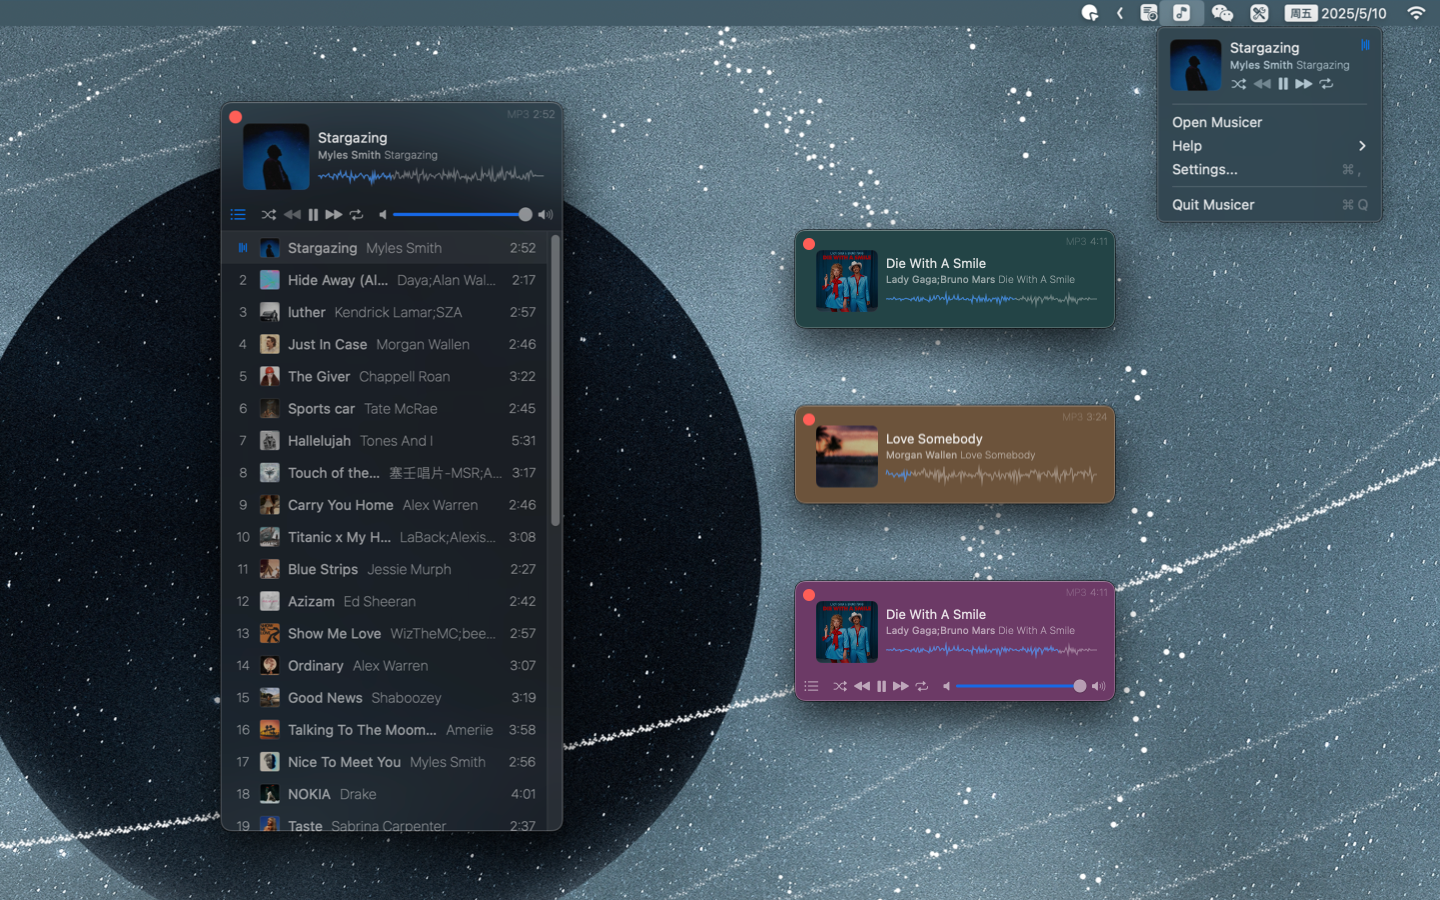
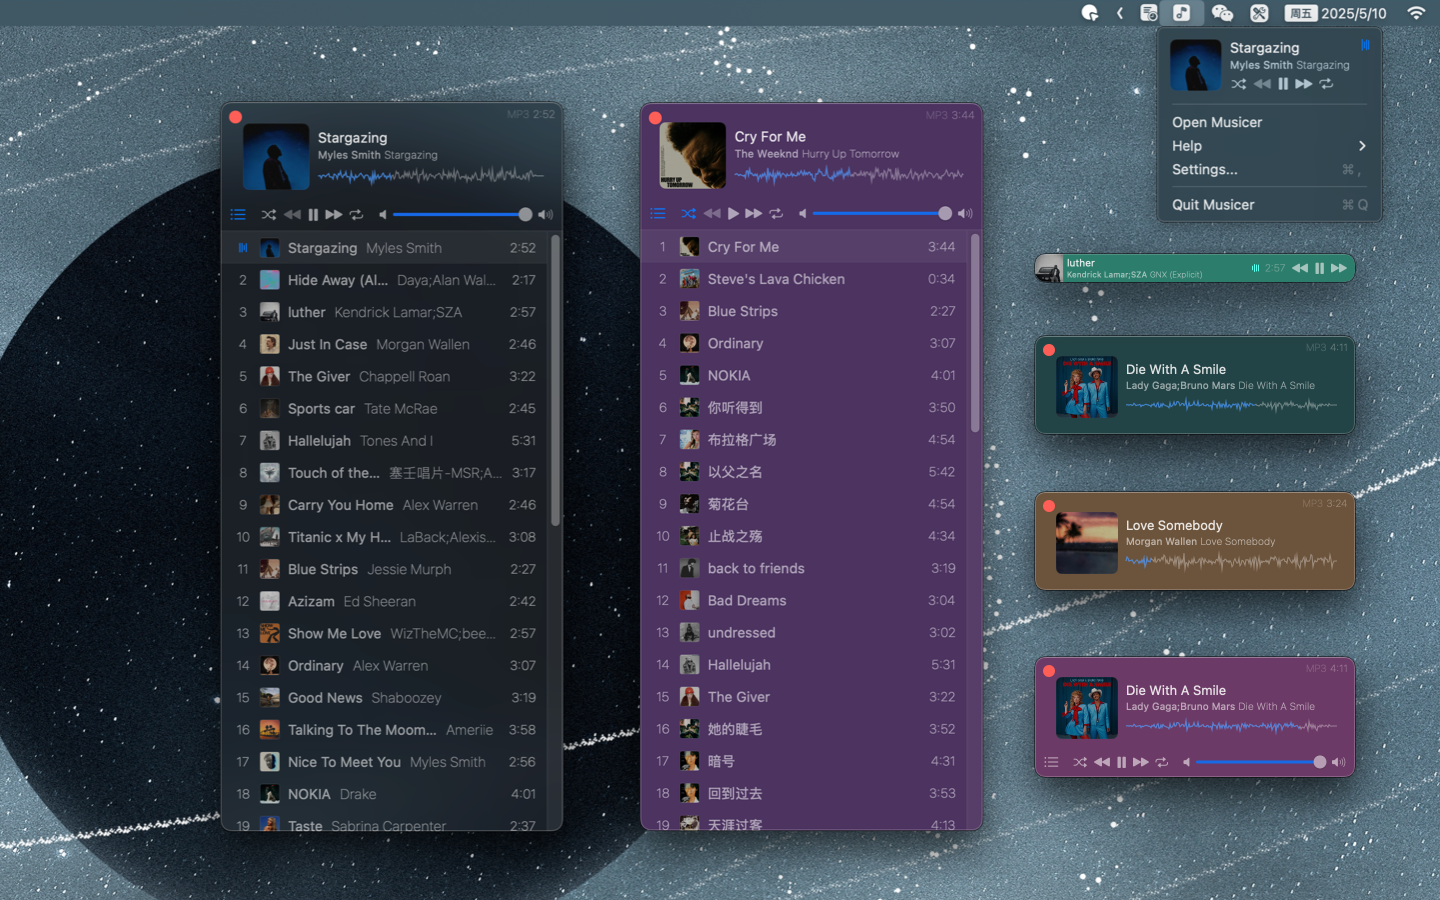
doc: update screenshots. eb938b3c29a59a7692d06b92d4dcbae3a60595a6

diff --git a/index.zh.html b/index.zh.html
@@ -4,7 +4,7 @@
     <meta charset="UTF-8">
     <meta http-equiv="X-UA-Compatible" content="IE=edge">
     <meta name="viewport" content="width=device-width, initial-scale=1.0">
-    <title>Musicer v1.1.0</title>
+    <title>Musicer 1.1.0</title>
     <meta name="description" content="迷你便捷的本地音乐播放器，轻巧实用，专为播放本地音频而设计，支持多种常见音频格式，随时随地畅听您的音乐！">
     <meta name="keywords" content="music,player,local,audio,offline,waveform,mini,toolbar">
     <link rel="stylesheet" type="text/css" href="css/main.css?v=1.34.1">
@@ -20,8 +20,8 @@
   </head>
   <body id="idoctotop"><a href="#idoctotop" class="gototop">top</a>
     <header class="header">
-      <article class="inner warpper" style="max-width:720px;"><a class="logo" href="index.html"><img alt="Musicer <sup>v1.1.0</sup> logo" src="assets/logo.png">
-<span class="title">Musicer <sup>v1.1.0</sup></span></a>
+      <article class="inner warpper" style="max-width:720px;"><a class="logo" href="index.html"><img alt="Musicer <sup>1.1.0</sup> logo" src="assets/logo.png">
+<span class="title">Musicer <sup>1.1.0</sup></span></a>
         <div class="content">
           <ul class="menu">
             <li><a href="index.html" target="" class="">Home</a></li>
@@ -48,6 +48,9 @@
         </div>
         <p>
           <img src="assets/screenshots-1.png" alt="Musicer 1">
+        </p>
+        <p>
+          <img src="assets/screenshots-2.png" alt="Musicer 2">
         </p>
         <p>迷你便捷的本地音乐播放器，轻巧实用，专为播放本地音频而设计，支持多种常见音频格式，随时随地畅听您的音乐！</p>
         <h3 id="核心功能"><a aria-hidden="true" tabindex="-1" href="#核心功能" class="anchor"><span class="icon icon-link"></span></a>核心功能</h3>

diff --git a/index.html b/index.html
@@ -4,7 +4,7 @@
     <meta charset="UTF-8">
     <meta http-equiv="X-UA-Compatible" content="IE=edge">
     <meta name="viewport" content="width=device-width, initial-scale=1.0">
-    <title>Musicer v1.1.0</title>
+    <title>Musicer 1.1.0</title>
     <meta name="description" content="Mini and convenient local music player, lightweight and practical, specially designed for playing local audio, supports ">
     <meta name="keywords" content="music,player,local,audio,offline,waveform,mini,toolbar">
     <link rel="stylesheet" type="text/css" href="css/main.css?v=1.34.1">
@@ -20,8 +20,8 @@
   </head>
   <body id="idoctotop"><a href="#idoctotop" class="gototop">top</a>
     <header class="header">
-      <article class="inner warpper" style="max-width:720px;"><a class="logo" href="index.html"><img alt="Musicer <sup>v1.1.0</sup> logo" src="assets/logo.png">
-<span class="title">Musicer <sup>v1.1.0</sup></span></a>
+      <article class="inner warpper" style="max-width:720px;"><a class="logo" href="index.html"><img alt="Musicer <sup>1.1.0</sup> logo" src="assets/logo.png">
+<span class="title">Musicer <sup>1.1.0</sup></span></a>
         <div class="content">
           <ul class="menu">
             <li><a href="index.html" target="" class="active">Home</a></li>
@@ -48,6 +48,9 @@
         </div>
         <p>
           <img src="assets/screenshots-1.png" alt="Musicer 1">
+        </p>
+        <p>
+          <img src="assets/screenshots-2.png" alt="Musicer 2">
         </p>
         <p>Mini and convenient local music player, lightweight and practical, specially designed for playing local audio, supports a variety of common audio formats, enjoy your music anytime, anywhere!</p>
         <h3 id="features"><a aria-hidden="true" tabindex="-1" href="#features" class="anchor"><span class="icon icon-link"></span></a>Features</h3>

diff --git a/terms-of-service.zh.html b/terms-of-service.zh.html
@@ -4,7 +4,7 @@
     <meta charset="UTF-8">
     <meta http-equiv="X-UA-Compatible" content="IE=edge">
     <meta name="viewport" content="width=device-width, initial-scale=1.0">
-    <title>Musicer 服务条款 Musicer v1.1.0</title>
+    <title>Musicer 服务条款 Musicer 1.1.0</title>
     <meta name="description" content="欢迎使用 Musicer！本服务条款（以下简称“条款”）规范您对 Musicer 应用（以下简称“应用”）的使用。请在使用前仔细阅读本条款。您的使用即表示您同意遵守本条款。">
     <meta name="keywords" content="music,player,local,audio,offline,waveform,mini,toolbar">
     <link rel="stylesheet" type="text/css" href="css/main.css?v=1.34.1">
@@ -20,8 +20,8 @@
   </head>
   <body id="idoctotop"><a href="#idoctotop" class="gototop">top</a>
     <header class="header">
-      <article class="inner warpper" style="max-width:720px;"><a class="logo" href="index.html"><img alt="Musicer <sup>v1.1.0</sup> logo" src="assets/logo.png">
-<span class="title">Musicer <sup>v1.1.0</sup></span></a>
+      <article class="inner warpper" style="max-width:720px;"><a class="logo" href="index.html"><img alt="Musicer <sup>1.1.0</sup> logo" src="assets/logo.png">
+<span class="title">Musicer <sup>1.1.0</sup></span></a>
         <div class="content">
           <ul class="menu">
             <li><a href="index.html" target="" class="">Home</a></li>

diff --git a/privacy-policy.zh.html b/privacy-policy.zh.html
@@ -4,7 +4,7 @@
     <meta charset="UTF-8">
     <meta http-equiv="X-UA-Compatible" content="IE=edge">
     <meta name="viewport" content="width=device-width, initial-scale=1.0">
-    <title>隐私政策 Musicer v1.1.0</title>
+    <title>隐私政策 Musicer 1.1.0</title>
     <meta name="description" content="感谢您使用 Musicer！我们非常重视您的隐私，并承诺保护您在使用我们的工具时提供的任何个人信息。本隐私政策详细说明了我们如何收集、使用、披露和保护您的信息。">
     <meta name="keywords" content="music,player,local,audio,offline,waveform,mini,toolbar">
     <link rel="stylesheet" type="text/css" href="css/main.css?v=1.34.1">
@@ -20,8 +20,8 @@
   </head>
   <body id="idoctotop"><a href="#idoctotop" class="gototop">top</a>
     <header class="header">
-      <article class="inner warpper" style="max-width:720px;"><a class="logo" href="index.html"><img alt="Musicer <sup>v1.1.0</sup> logo" src="assets/logo.png">
-<span class="title">Musicer <sup>v1.1.0</sup></span></a>
+      <article class="inner warpper" style="max-width:720px;"><a class="logo" href="index.html"><img alt="Musicer <sup>1.1.0</sup> logo" src="assets/logo.png">
+<span class="title">Musicer <sup>1.1.0</sup></span></a>
         <div class="content">
           <ul class="menu">
             <li><a href="index.html" target="" class="">Home</a></li>

diff --git a/feedback.zh.html b/feedback.zh.html
@@ -4,7 +4,7 @@
     <meta charset="UTF-8">
     <meta http-equiv="X-UA-Compatible" content="IE=edge">
     <meta name="viewport" content="width=device-width, initial-scale=1.0">
-    <title>反馈与支持 Musicer v1.1.0</title>
+    <title>反馈与支持 Musicer 1.1.0</title>
     <meta name="description" content="Musicer 是一款迷你便捷的本地音乐播放器，轻巧实用，专为播放本地音频而设计，支持多种常见音频格式，随时随地畅听您的音乐！">
     <meta name="keywords" content="music,player,local,audio,offline,waveform,mini,toolbar">
     <link rel="stylesheet" type="text/css" href="css/main.css?v=1.34.1">
@@ -20,8 +20,8 @@
   </head>
   <body id="idoctotop"><a href="#idoctotop" class="gototop">top</a>
     <header class="header">
-      <article class="inner warpper" style="max-width:720px;"><a class="logo" href="index.html"><img alt="Musicer <sup>v1.1.0</sup> logo" src="assets/logo.png">
-<span class="title">Musicer <sup>v1.1.0</sup></span></a>
+      <article class="inner warpper" style="max-width:720px;"><a class="logo" href="index.html"><img alt="Musicer <sup>1.1.0</sup> logo" src="assets/logo.png">
+<span class="title">Musicer <sup>1.1.0</sup></span></a>
         <div class="content">
           <ul class="menu">
             <li><a href="index.html" target="" class="">Home</a></li>

diff --git a/terms-of-service.html b/terms-of-service.html
@@ -4,7 +4,7 @@
     <meta charset="UTF-8">
     <meta http-equiv="X-UA-Compatible" content="IE=edge">
     <meta name="viewport" content="width=device-width, initial-scale=1.0">
-    <title>Musicer Terms of Service Musicer v1.1.0</title>
+    <title>Musicer Terms of Service Musicer 1.1.0</title>
     <meta name="description" content="Welcome to Musicer! These Terms of Service (hereinafter referred to as “Terms”) govern your use of the Musicer applicati">
     <meta name="keywords" content="music,player,local,audio,offline,waveform,mini,toolbar">
     <link rel="stylesheet" type="text/css" href="css/main.css?v=1.34.1">
@@ -20,8 +20,8 @@
   </head>
   <body id="idoctotop"><a href="#idoctotop" class="gototop">top</a>
     <header class="header">
-      <article class="inner warpper" style="max-width:720px;"><a class="logo" href="index.html"><img alt="Musicer <sup>v1.1.0</sup> logo" src="assets/logo.png">
-<span class="title">Musicer <sup>v1.1.0</sup></span></a>
+      <article class="inner warpper" style="max-width:720px;"><a class="logo" href="index.html"><img alt="Musicer <sup>1.1.0</sup> logo" src="assets/logo.png">
+<span class="title">Musicer <sup>1.1.0</sup></span></a>
         <div class="content">
           <ul class="menu">
             <li><a href="index.html" target="" class="">Home</a></li>

diff --git a/feedback.html b/feedback.html
@@ -4,7 +4,7 @@
     <meta charset="UTF-8">
     <meta http-equiv="X-UA-Compatible" content="IE=edge">
     <meta name="viewport" content="width=device-width, initial-scale=1.0">
-    <title>Feedback &#x26; Support Musicer v1.1.0</title>
+    <title>Feedback &#x26; Support Musicer 1.1.0</title>
     <meta name="description" content="Musicer is a mini and convenient local music player, lightweight and practical, specially designed for playing local aud">
     <meta name="keywords" content="music,player,local,audio,offline,waveform,mini,toolbar">
     <link rel="stylesheet" type="text/css" href="css/main.css?v=1.34.1">
@@ -20,8 +20,8 @@
   </head>
   <body id="idoctotop"><a href="#idoctotop" class="gototop">top</a>
     <header class="header">
-      <article class="inner warpper" style="max-width:720px;"><a class="logo" href="index.html"><img alt="Musicer <sup>v1.1.0</sup> logo" src="assets/logo.png">
-<span class="title">Musicer <sup>v1.1.0</sup></span></a>
+      <article class="inner warpper" style="max-width:720px;"><a class="logo" href="index.html"><img alt="Musicer <sup>1.1.0</sup> logo" src="assets/logo.png">
+<span class="title">Musicer <sup>1.1.0</sup></span></a>
         <div class="content">
           <ul class="menu">
             <li><a href="index.html" target="" class="">Home</a></li>

diff --git a/privacy-policy.html b/privacy-policy.html
@@ -4,7 +4,7 @@
     <meta charset="UTF-8">
     <meta http-equiv="X-UA-Compatible" content="IE=edge">
     <meta name="viewport" content="width=device-width, initial-scale=1.0">
-    <title>Privacy Policy Musicer v1.1.0</title>
+    <title>Privacy Policy Musicer 1.1.0</title>
     <meta name="description" content="Thank you for using Musicer! We highly value your privacy and are committed to protecting any personal information you p">
     <meta name="keywords" content="music,player,local,audio,offline,waveform,mini,toolbar">
     <link rel="stylesheet" type="text/css" href="css/main.css?v=1.34.1">
@@ -20,8 +20,8 @@
   </head>
   <body id="idoctotop"><a href="#idoctotop" class="gototop">top</a>
     <header class="header">
-      <article class="inner warpper" style="max-width:720px;"><a class="logo" href="index.html"><img alt="Musicer <sup>v1.1.0</sup> logo" src="assets/logo.png">
-<span class="title">Musicer <sup>v1.1.0</sup></span></a>
+      <article class="inner warpper" style="max-width:720px;"><a class="logo" href="index.html"><img alt="Musicer <sup>1.1.0</sup> logo" src="assets/logo.png">
+<span class="title">Musicer <sup>1.1.0</sup></span></a>
         <div class="content">
           <ul class="menu">
             <li><a href="index.html" target="" class="">Home</a></li>
